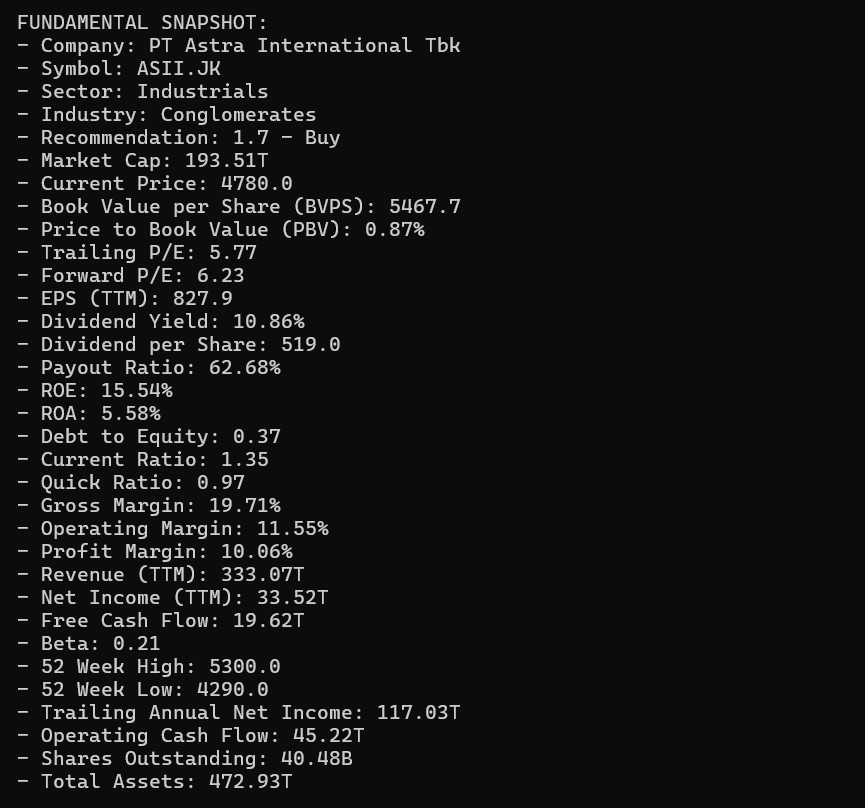
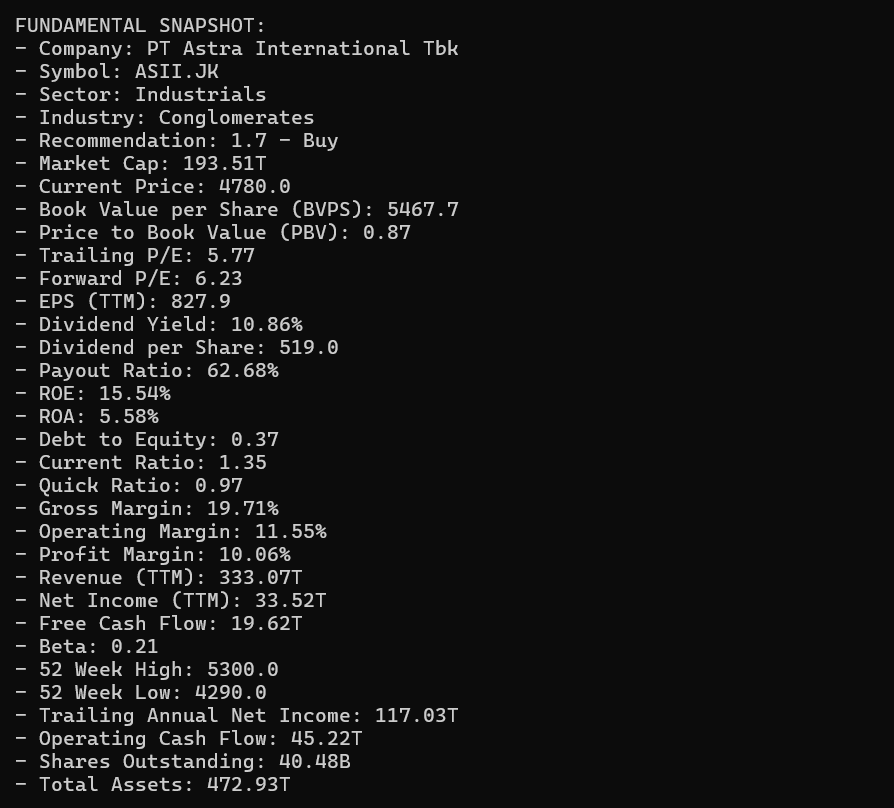
typo

Changed region(s): [[0.0, 0.0, 0.5306, 0.9901]]

diff --git a/core/fundamental.py b/core/fundamental.py
@@ -32,7 +32,7 @@ def get_fundamental_data(ticker):
         "Market Cap": format_number(info.get("marketCap")),
         "Current Price": format_number(info.get("currentPrice")),
         "Book Value per Share (BVPS)": f"{round(info.get('bookValue', 0), 2)}" if info.get("bookValue") else "N/A",
-        "Price to Book Value (PBV)": f"{round(info.get('priceToBook', 0), 2)}%" if info.get("priceToBook") else "N/A",
+        "Price to Book Value (PBV)": f"{round(info.get('priceToBook', 0), 2)}" if info.get("priceToBook") else "N/A",
         "Trailing P/E": round(info.get("trailingPE", 0), 2) if info.get("trailingPE") else "N/A",
         "Forward P/E": round(info.get("forwardPE", 0), 2) if info.get("forwardPE") else "N/A",
         "EPS (TTM)": round(info.get("trailingEps", 0), 2) if info.get("trailingEps") else "N/A",
